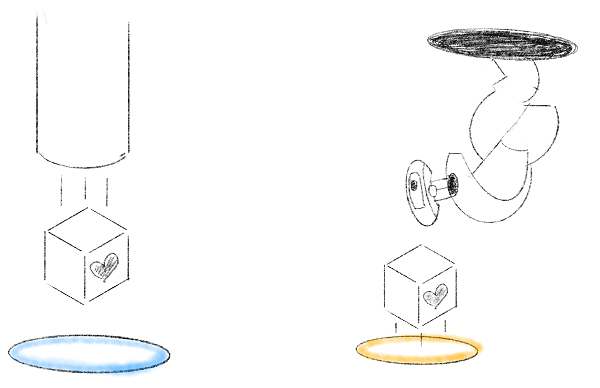
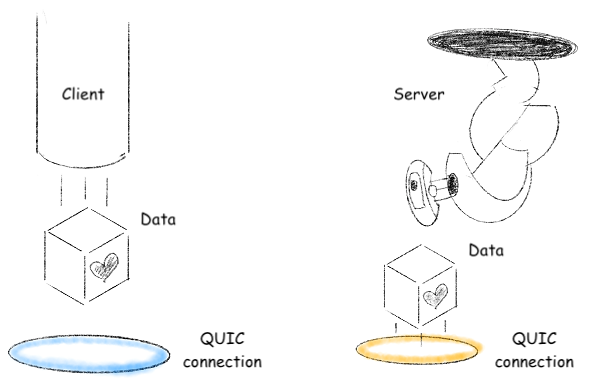
Fix wording and portals pic

diff --git a/_posts/2022-08-12-a-quic-chat.md b/_posts/2022-08-12-a-quic-chat.md
@@ -32,7 +32,7 @@ Let's break the TCP/IP stack down layer by layer, going bottom-up:
 
 2. The internet layer is responsible for routing packets between nodes over the networks. This layer tells the data that comes up from the link layer where to go next.
 
-3. The transport layer that seats on top of the first two provides well-known TCP and UDP protocols — we will talk about them in a moment. When working on this level, we, developers, are abstracted away from how data is actually being routed and transmitted over the network. The link and internet layers are still there doing their job, but on the transport level we don't have to think about the specifics.
+3. The transport layer that seats on top of the first two provides well-known TCP and UDP protocols, that stand for Transmission Control Protocol and User Datagram Protocol, respectively — we will talk about them in a moment. When working on this level, we, developers, are abstracted away from how data is actually being routed and transmitted over the network. The link and internet layers are still there doing their job, but on the transport level we don't have to think about the specifics.
 
 4. Finally, on the application layer we deal with, well, application-level protocols, such as HTTP or SMTP. These protocols decode data from bytes to something more meaningful for our applications, like JSON documents.
 
@@ -48,7 +48,7 @@ This is, of course, a fairly simplified picture of the TCP/IP stack, but it shou
 
 ### TCP
 
-When we make requests over the Internet, they normally travel through a bunch of networks connected via physical devices until they reach the destination server. One can check a request's route by executing the `traceroute {url}` command on a Unix-like system or `tracert {url}` on Windows. With that many moving parts, failures may and do happen: packets get lost, networks are being congested, devices fail. TCP takes care of all that by ensuring that packets are delivered in the right order, retransmitting lost packets, and adapting the data transfer rate — in other words, it makes the connection reliable.
+When we make requests over the Internet, they normally travel through a bunch of networks connected via physical devices until they reach the destination server. With that many moving parts, failures may and do happen: packets get lost, networks are being congested, devices fail. TCP takes care of all that by ensuring that packets are delivered in the right order, retransmitting lost packets, and adapting the data transfer rate — in other words, it makes the connection reliable.
 
 When a client wants to send data to or receive data from the server, a TCP session has to be created first. Once created, it allows for sending a stream of data back and forth between the parties. The session starts with a three-way handshake:
 
@@ -66,9 +66,11 @@ Once the communication is done, a similar handshake is performed in order to clo
 
 Unlike TCP that takes care of transmission reliability, the UDP protocol couldn't care less about it. UDP does not have sessions, delivery confirmation, or packet retransmission. When sending data over UDP, the sender doesn't even know if the receiver is available. All UDP does is send packets to a specified destination. It is nevertheless a vital part of the stack and is widely used in certain scenarios, such as streaming or online multiplayer games.
 
-The absence of all these features, however, makes UDP useful for when packet loss is tolerable and transmission speed is priority. However, using UDP doesn't mean we can't reliably transfer data. We simply need to move ensuring reliability to an application layer protocol. For example, [TFTP](https://en.wikipedia.org/wiki/Trivial_File_Transfer_Protocol) uses UDP as a transport protocol and implements some TCP features, such as packet acknowledgement and retransmission.
+The absence of all these features, however, makes UDP useful for when packet loss is tolerable and transmission speed is priority. Using UDP doesn't mean we can't reliably transfer data, though. We simply need to move ensuring reliability to an application layer protocol. For example, [TFTP](https://en.wikipedia.org/wiki/Trivial_File_Transfer_Protocol) uses UDP as a transport protocol and implements some TCP features, such as packet acknowledgement and retransmission.
 
 ### TLS
+
+In the early days of the Internet, data was transmitted as is without any kind of protection. Effectively, any node between the client and server could potentially read it. Lately, when passwords and credit card numbers started to float around, it became quite a concern. This is when TLS, designed to provide communication security, gained popularity and wide adoption.
 
 Just like TCP, TLS also uses a handshake to establish a stateful TLS session:
 
@@ -76,7 +78,7 @@ Just like TCP, TLS also uses a handshake to establish a stateful TLS session:
 ![TLS Handshake](/assets/images/tls-handshake.png)
 {: refdef}
 
-First, the client is requesting the server to establish a TLS session providing a TLS version, ciphers for the encryption, and the client's public key. The server then replies with the cipher it's going to use, its own public key, and a certificate that the server is truly what the client thinks it is. Next, the client verifies the certificate with a certificate authority. The certificate is usually issued by an authority that both client and server trust, for example [Let's Encrypt](https://letsencrypt.org). Both the client and the server have to derive a signature and a message authentication code from each other's public keys in order to verify the integrity of encrypted data. Once the handshake is performed, the client can start sending encrypted data to the server.
+First, the client requests the server to establish a TLS session providing a TLS version, ciphers for the encryption, and the client's public key. The server then replies with the cipher it's going to use, its own public key, and a certificate indicating that the server is truly what the client thinks it is. Next, the client verifies the certificate with a certificate authority. The certificate is usually issued by an authority that both client and server trust, for example [Let's Encrypt](https://letsencrypt.org). Both the client and the server have to derive a signature and message authentication code from each other's public keys in order to verify the integrity of encrypted data. Once the handshake is performed, the client can start sending encrypted data to the server.
 
 ### Problems
 
@@ -96,7 +98,7 @@ QUIC is a transport protocol that's built on top of UDP. It implements all the s
 
 QUIC also addresses the problems from above. It introduces a concept of independent streams, so that if a stream's packet gets dropped, other streams would continue to work. Unlike TCP and UDP that are situated in kernelspace, QUIC is a userspace protocol, that is, it can be patched and can evolve at a much faster speed. Last but not least, it reduces latency by offering one- and zero-roundtrip handshakes. In other words, QUIC is, well, quick (I know, I know, everyone and their mother made this joke already, but I couldn't resist).
 
-During the QUIC handshake, a client sends an initial request containing all the data needed to establish a connection. The server replies with a response providing acknowledgement, a TLS certificate, and other information. Effectively, the connection is set, starting from the next request that would acknowledge server's data the client can send actual payload.
+During the QUIC handshake, a client sends an initial request containing all the data needed to establish a connection. The server replies with a response providing acknowledgement, a TLS certificate, and other information. Effectively, the connection is set, starting from the next request that would acknowledge server's data the client can send the actual payload.
 
 {:refdef: style="text-align: center;"}
 ![QUIC Handshake](/assets/images/quic-handshake.png)
@@ -280,7 +282,7 @@ type client struct {
 }
 ```
 
-On the client, we want to have two methods: `Send` for sending messages to the server and `Receive` for receiving them from the server. We start with the former:
+On the client, we want to have two methods: `Send` for sending messages to the server and `Receive` for receiving them from the server. We start with the former first:
 
 ```go
 func (c *client) Send(text string) error {
@@ -347,9 +349,7 @@ With both the client and server implemented, let's run them and see how the chat
 ![Chat](/assets/images/chat.gif)
 {: refdef}
 
-On the left pane we have the server showing who has connected, while on the right pane we have two clients, [Cave Johnson](https://theportalwiki.com/wiki/Cave_Johnson) and [GLaDOS](https://theportalwiki.com/wiki/GlaDOS), talking to each other.
-
-Using a network inspection tool, like [Wireshark](https://www.wireshark.org/), we can verify that both parties do indeed talk over QUIC and explore individual packets.
+On the left pane we have the server showing who has connected, while on the right pane we have two clients, [Cave Johnson](https://theportalwiki.com/wiki/Cave_Johnson) and [GLaDOS](https://theportalwiki.com/wiki/GlaDOS), talking to each other. Using a network inspection tool, like [Wireshark](https://www.wireshark.org/), we can verify that both parties do indeed talk over QUIC and even explore individual packets.
 
 You can check out the code from this post on GitHub: [quic-chat](https://github.com/timiskhakov/quic-chat).
 
